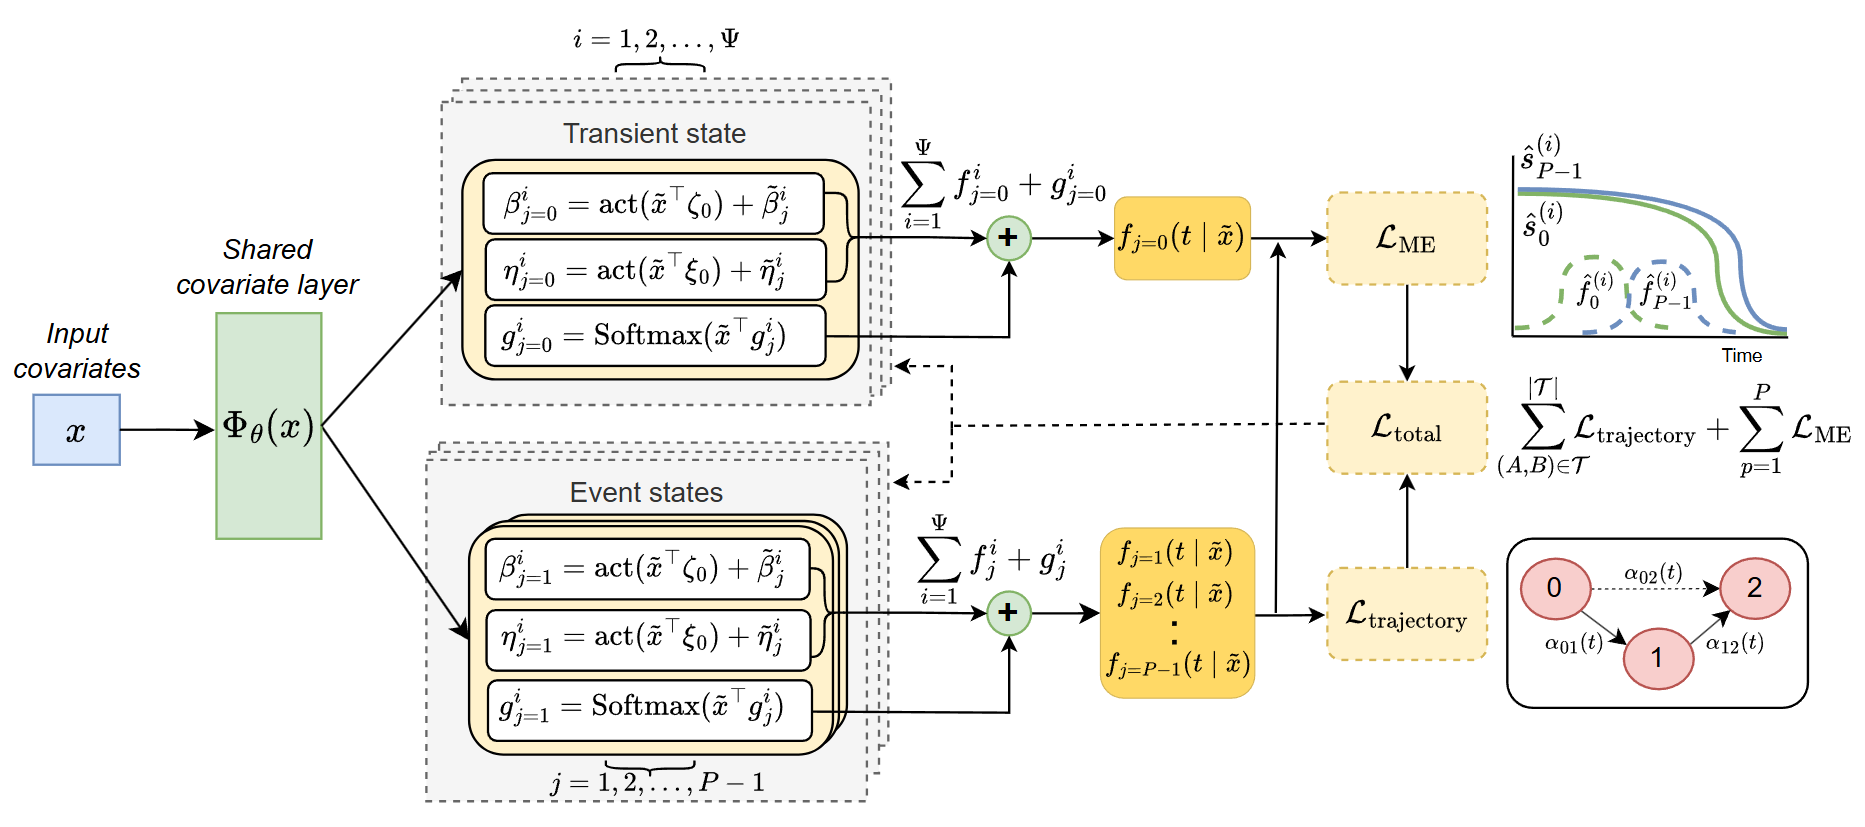
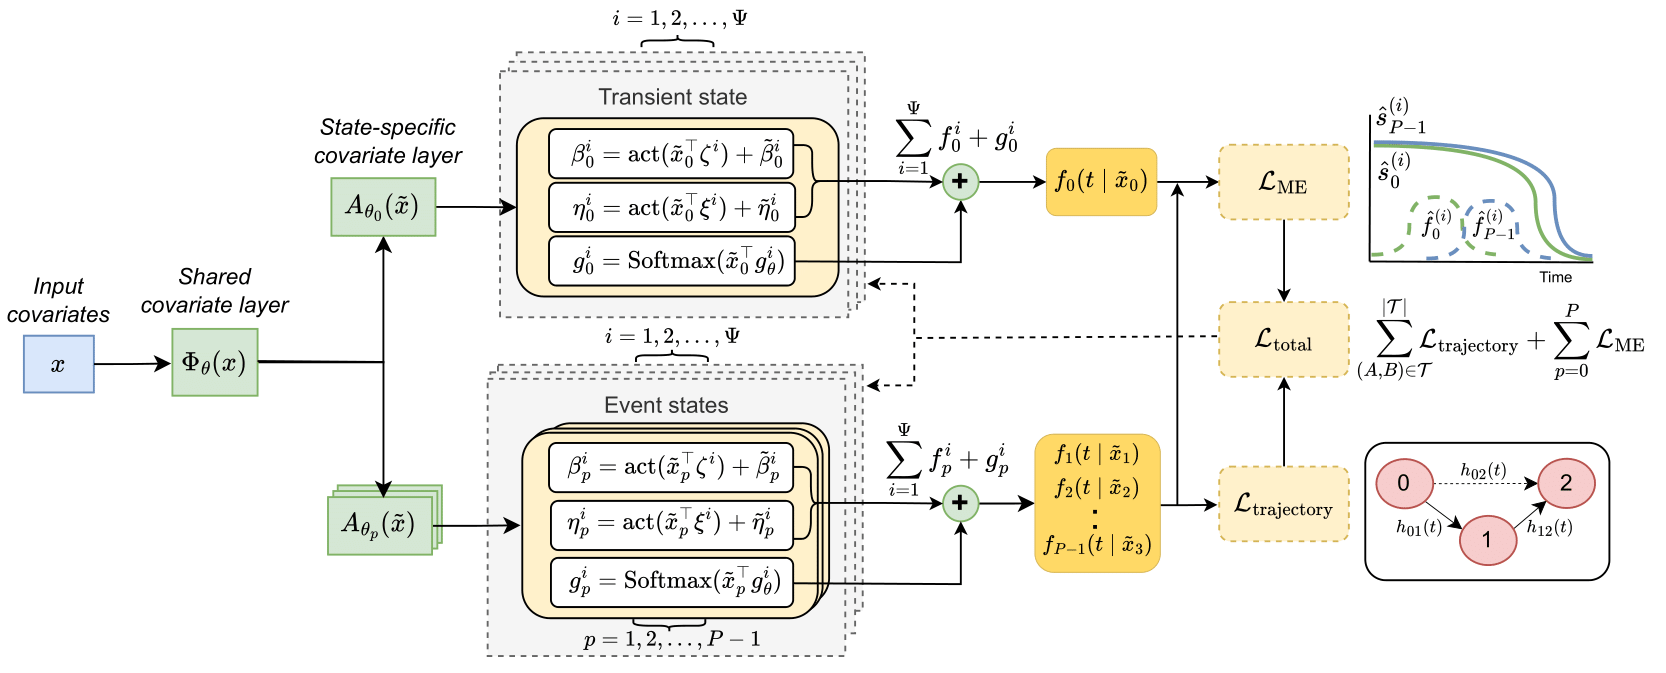
Updated demo, readme, picture

Changed region(s): [[0.0, 0.0312, 0.9988, 0.9985], [0.2185, 0.4681, 0.2497, 0.4993]]

diff --git a/README.md b/README.md
@@ -1,6 +1,6 @@
 # MENSA: A Multi-Event Network for Survival Analysis with Trajectory-based Likelihood Estimation
 
-Given an instance, a multi-event survival model predicts the time until that instance experiences each of several different events. These events are not mutually exclusive and there are often statistical dependencies between them. MENSA is a novel, deep-learning model for multi-event survival analysis. MENSA works by jointly learning the event distributions as a convex combination of Weibull distributions. This approach leverages mutual information between events that may be lost in models that assume independence. MENSA also supports single-event and competing-risks predictions.
+Most existing time-to-event methods focus on either single-event or competing-risk settings, leaving multi-event scenarios relatively underexplored. In many real-world applications, the same patient may experience multiple events that are non-exclusive, and sometimes semi-competing. A common workaround is to train separate single-event models, but this approach fails to exploit dependencies and shared structure across events. To address these limitations, we propose MENSA (Multi-Event Network for Survival Analysis), a deep learning model that jointly models flexible time-to-event distributions for multiple events, whether competing or co-occurring. Moreover, we introduce a novel trajectory-based likelihood that captures the temporal ordering between events. Across five benchmark datasets, MENSA consistently improves prediction performance over with state-of-the-art baselines.
 
 Preprint: https://arxiv.org/abs/2409.06525
 
